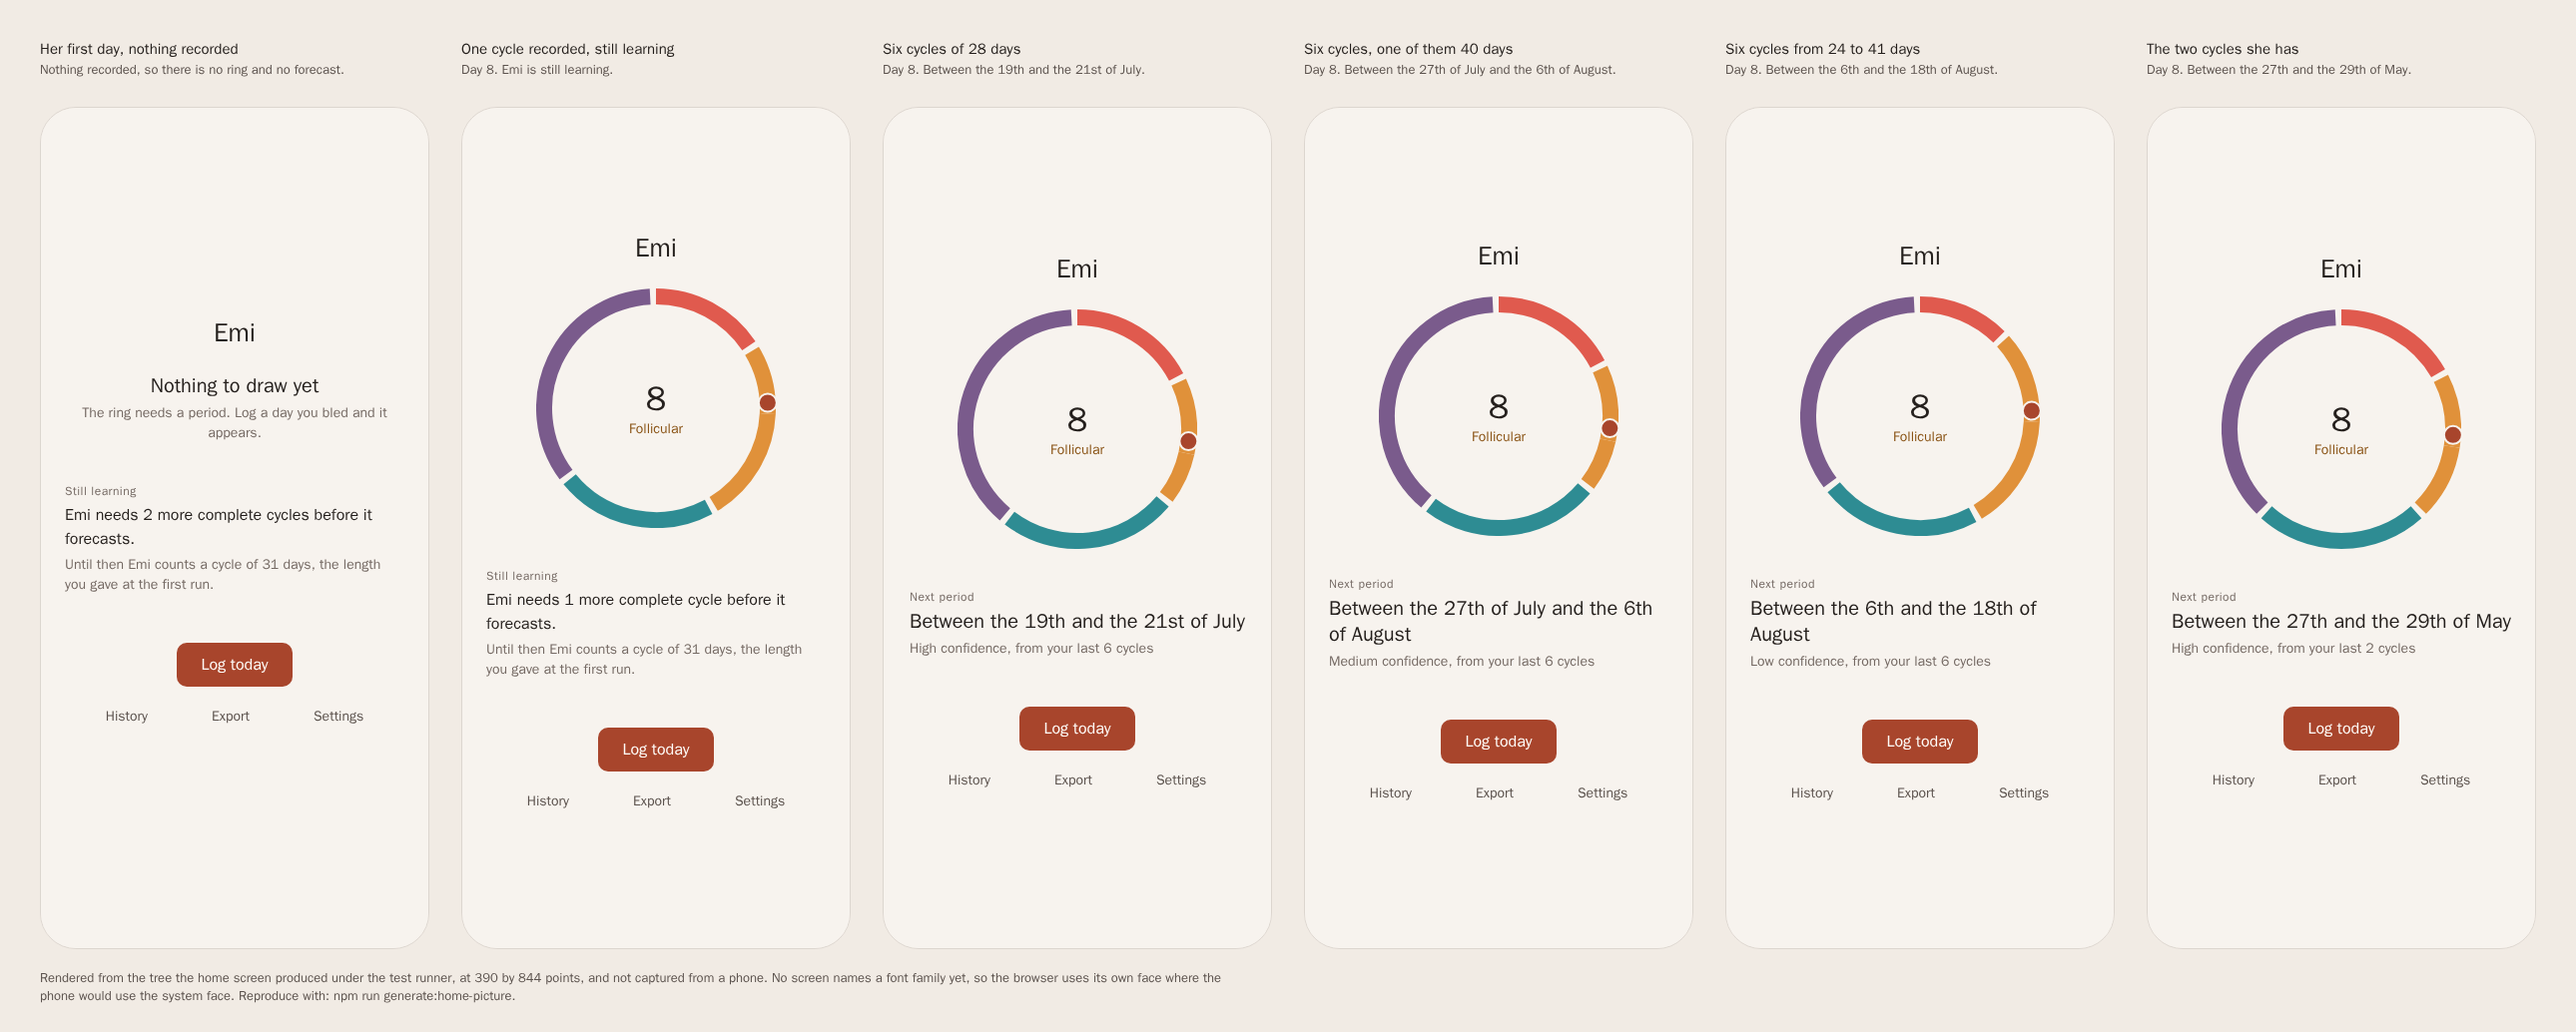
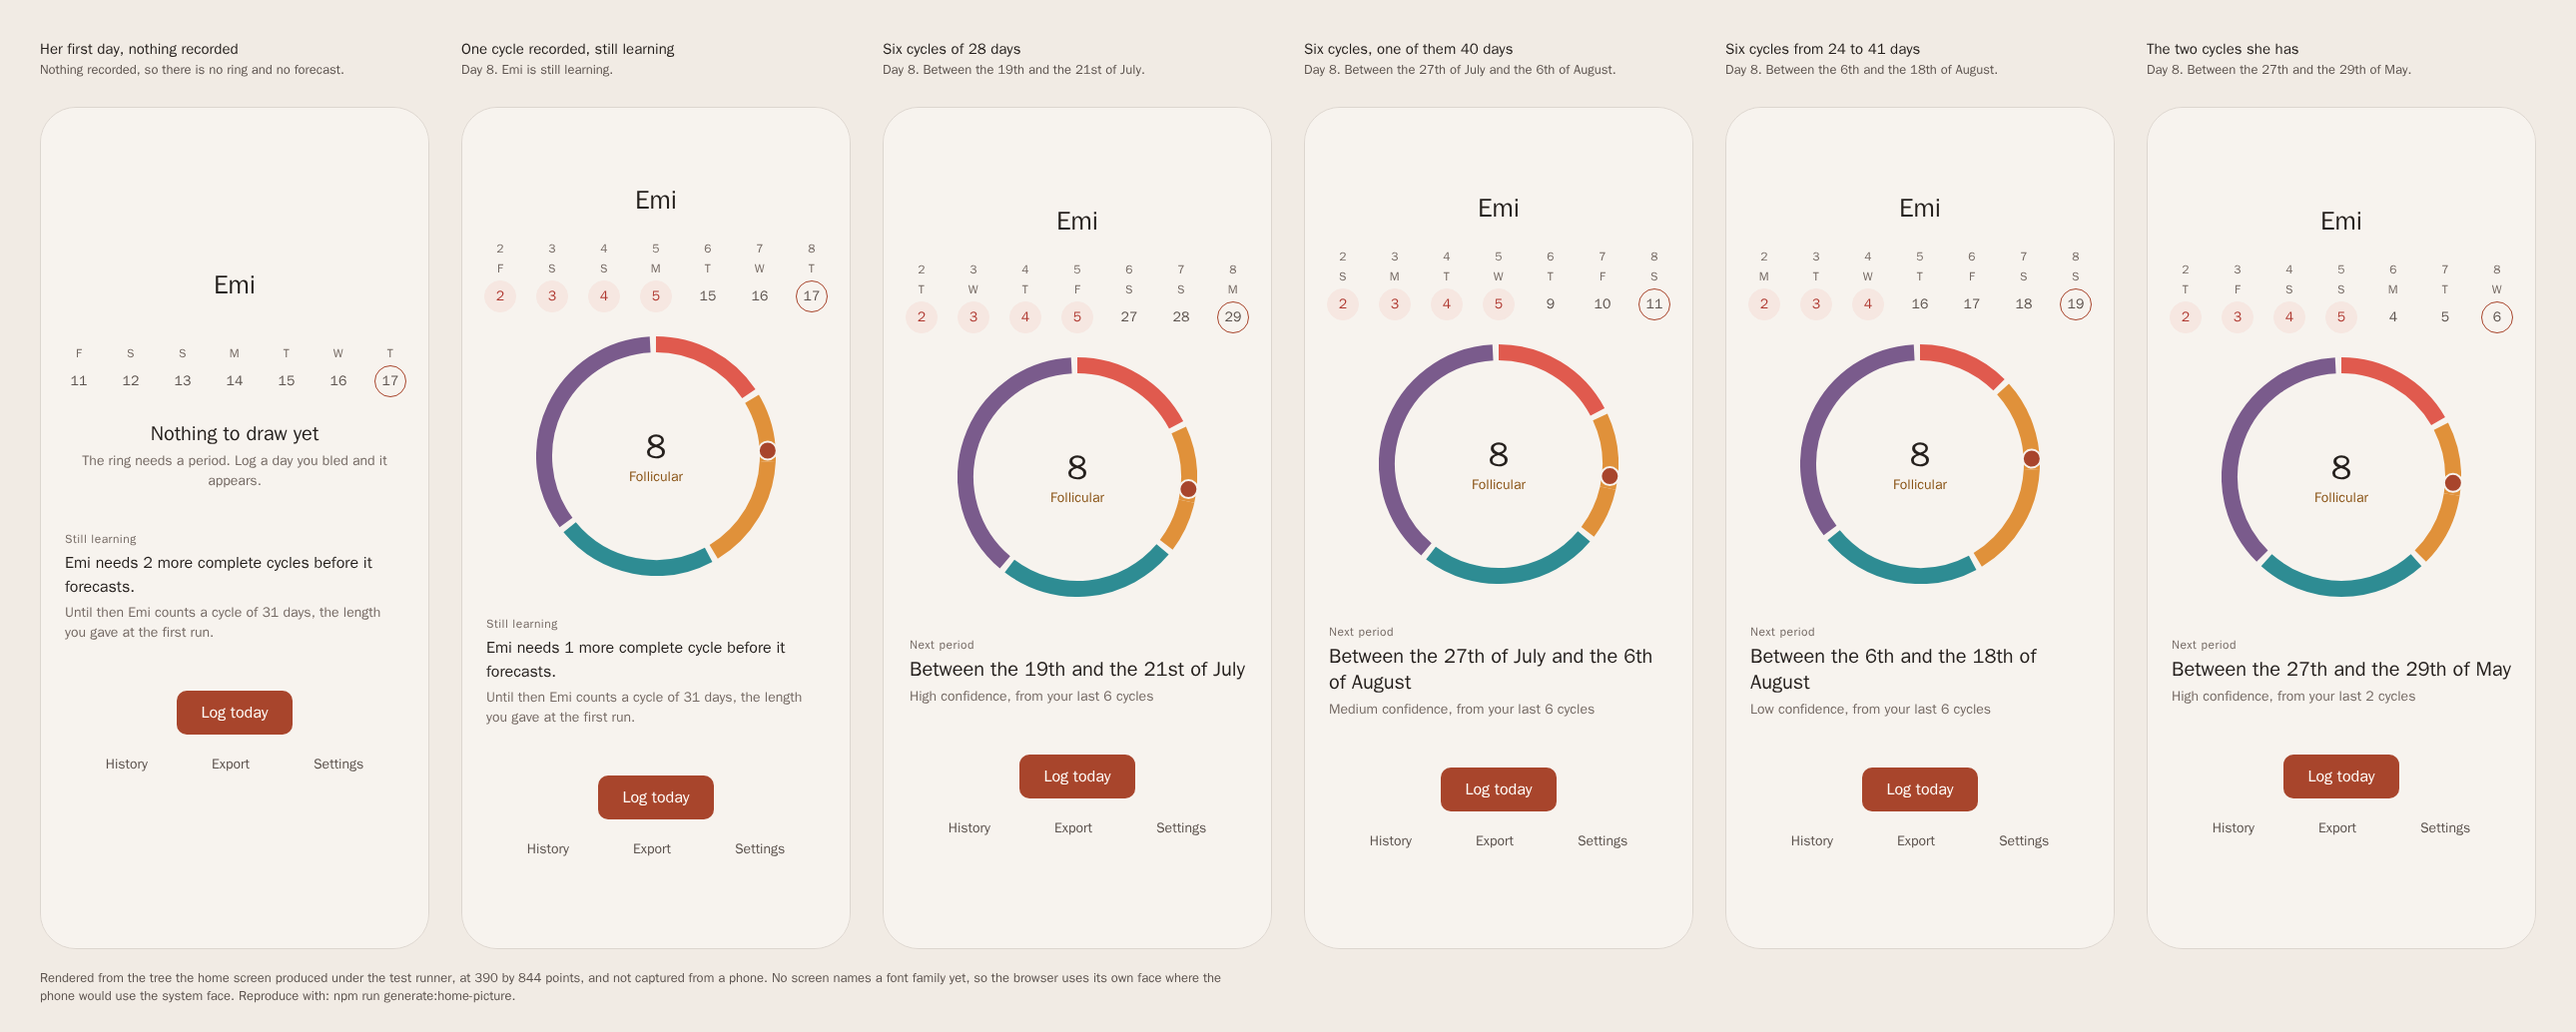
EMI: docs: show her week in the story

diff --git a/apps/mobile/tests/pictures/homeScreen.picture.tsx b/apps/mobile/tests/pictures/homeScreen.picture.tsx
@@ -15,6 +15,7 @@ import { ringInputFor } from '../../src/features/cycle/ringInput';
 import { rangeSentence } from '../../src/features/forecast/copy';
 import { forecastOf } from '../../src/features/forecast/fromCache';
 import { HomeScreen } from '../../src/features/home/HomeScreen';
+import { weekEndingOn } from '../../src/features/home/weekStrip';
 import type { RecordedSet } from '../../../../packages/cycle/tests/fixtures/recordedSets';
 import {
   daysOf,
@@ -63,6 +64,9 @@ function browser(): string {
 
 /** The day of the cycle each screen is drawn on, and the length she gave at the first run. */
 const theDaySheOpensIt = 8;
+
+/** The day an empty phone is drawn on, so the same week is drawn every run. */
+const recordedOn = '2026-09-17';
 const sheSaidHerCycleRuns = 31;
 
 const theCaveat = [
@@ -106,13 +110,17 @@ async function drawn(recorded: Recorded): Promise<DrawnScreen> {
   const cycles = listCycles(database);
   const open = cycles[cycles.length - 1];
   const forecast = forecastOf(cycles);
+  const records = recordedDays(database, readDay);
+  // A phone with nothing on it has no cycle to count a day from, so the week is drawn around the
+  // day the picture is taken instead.
+  const today = open === undefined ? recordedOn : addDays(open.startedOn, theDaySheOpensIt - 1);
   const ring =
     open === undefined
       ? undefined
       : ringInputFor({
           cycles,
-          records: recordedDays(database, readDay),
-          today: addDays(open.startedOn, theDaySheOpensIt - 1),
+          records,
+          today,
           statedCycleLengthDays: sheSaidHerCycleRuns,
         });
 
@@ -123,8 +131,11 @@ async function drawn(recorded: Recorded): Promise<DrawnScreen> {
       onExport={() => undefined}
       onHistory={() => undefined}
       onLogToday={() => undefined}
+      onOpenDay={() => undefined}
       onSettings={() => undefined}
       ring={ring}
+      today={today}
+      week={weekEndingOn({ cycles, records, forecast, today })}
     />,
   );
   // A copy, taken before the screen is torn down. The runner holds one screen at a time, so a tree

diff --git a/apps/mobile/src/features/home/WeekStrip.tsx b/apps/mobile/src/features/home/WeekStrip.tsx
@@ -137,6 +137,7 @@ const styles = StyleSheet.create({
     alignItems: 'center',
     borderColor: colour.stone,
     borderRadius: radius.round,
+    borderStyle: 'solid',
     borderWidth: stroke.icon,
     height: DISC_SIZE,
     justifyContent: 'center',

diff --git a/docs/story.md b/docs/story.md
@@ -69,6 +69,15 @@ range with a confidence only once it has two.
 Rendered under the test runner at 390 by 844 points, and not captured from a phone. Draw it again
 with `npm run generate:home-picture`.
 
+Her week sits above the ring. Seven columns end on today. Each column says which day of her cycle
+it was. A day she bled is filled and carries the day of her period. A day her next period can start
+on has a dotted outline. She presses a column to open that day and correct it.
+
+![The week above the ring, on six recorded histories](../brand/screens/home-screen.png)
+
+Rendered under the test runner at 390 by 844 points, and not captured from a phone. Draw it again
+with `npm run generate:home-picture`.
+
 She bleeds, so she logs the day. She presses one of five flow values and the ring redraws around
 her. A day she marks as not her period is kept and never starts a cycle.
 
